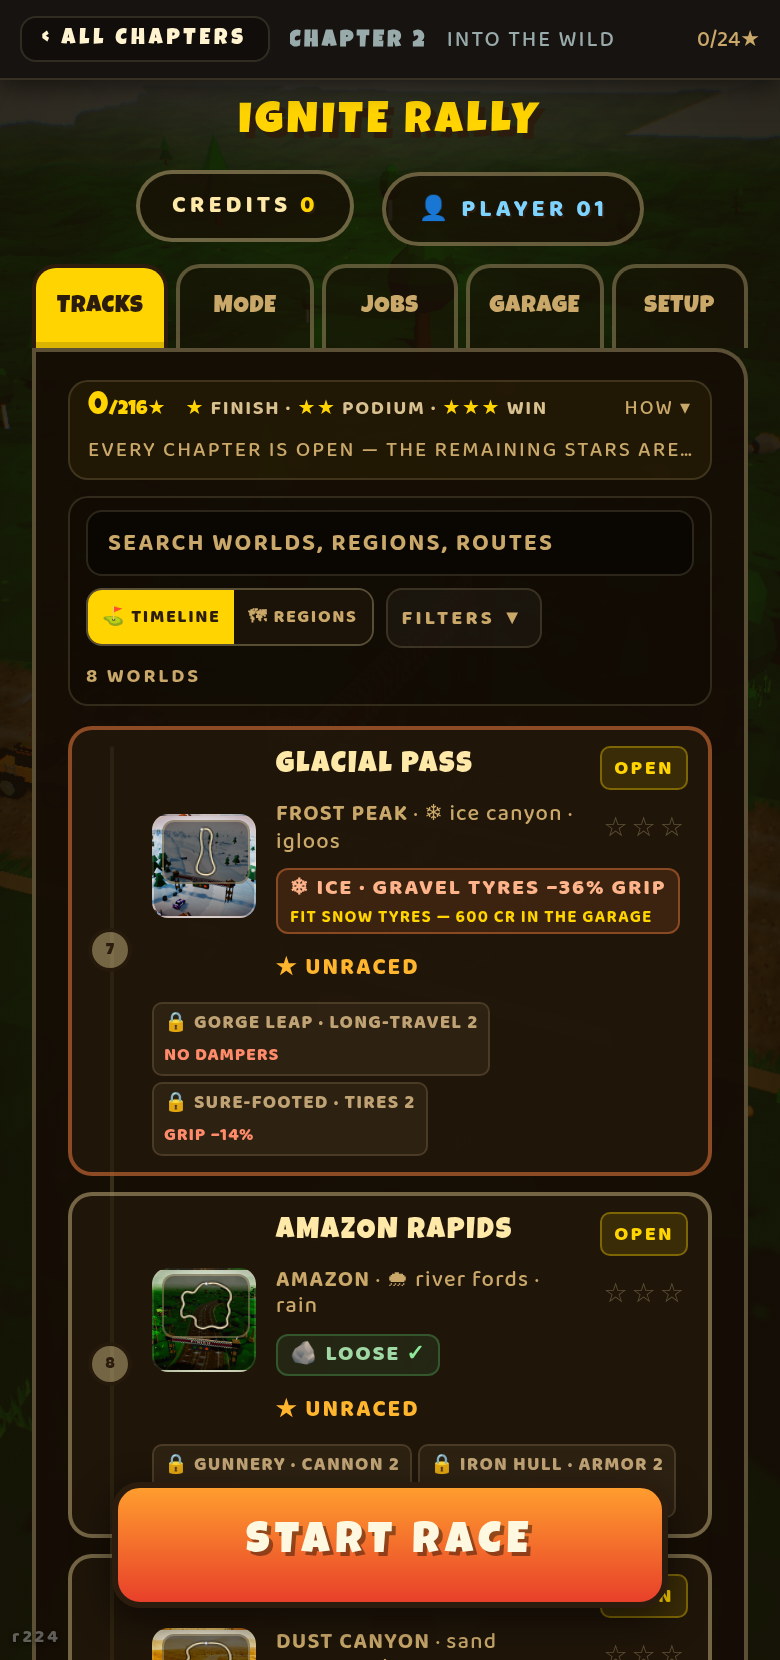
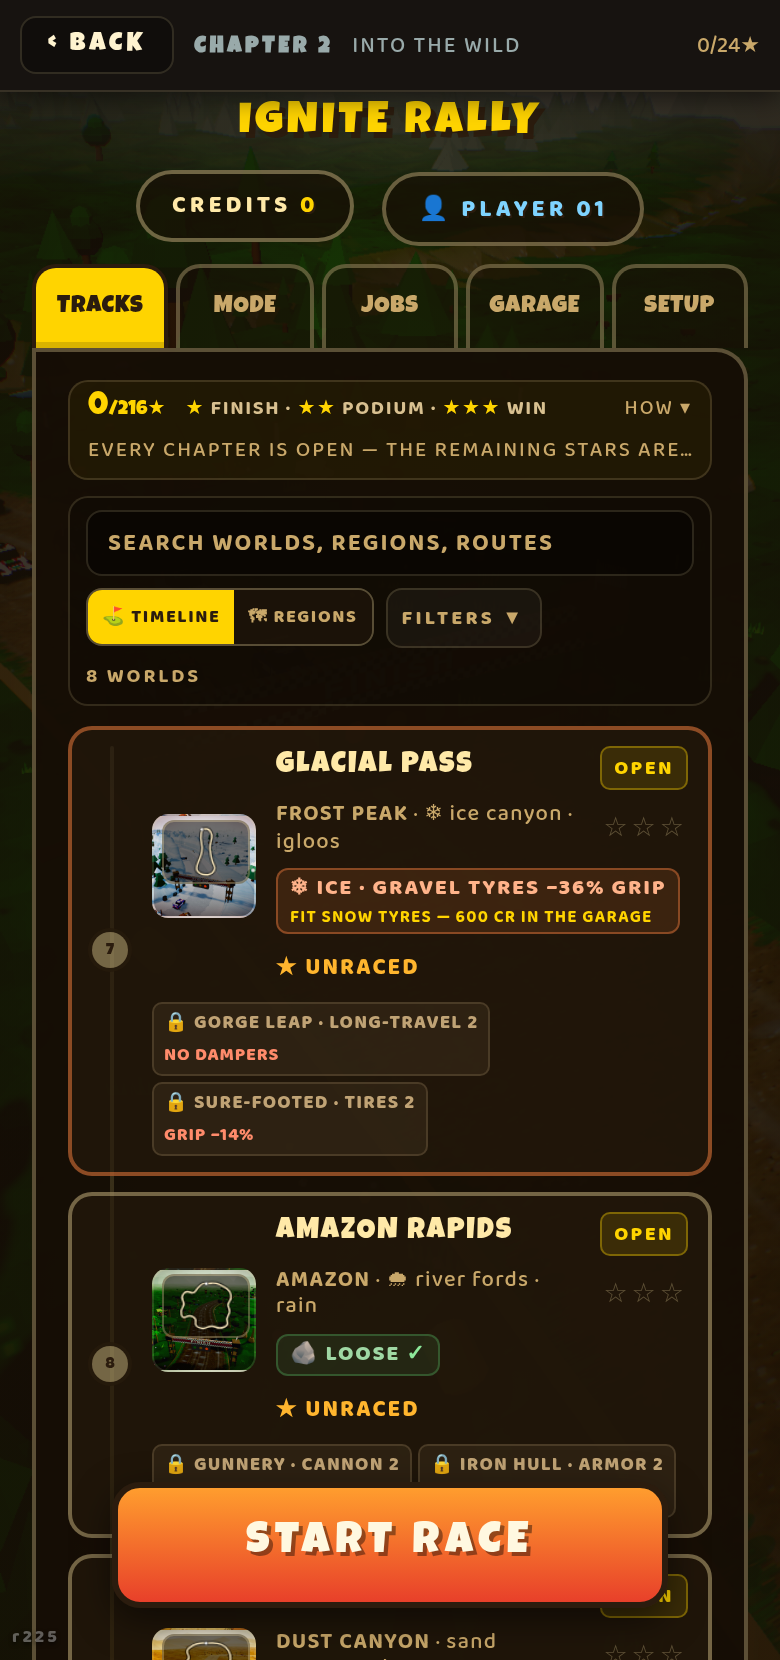
r225: one back button, one place, one word
"I miss the back button" — and nothing was broken, which is the point.
tools-scratch/whereback.mjs walks every menu state and prints what takes you
back from it. On r224:

  TRACKS, chapter index    (nothing)
  TRACKS, in a chapter     topbar "‹ ALL CHAPTERS" @10,8
  MODE tab                 header "‹ TRACKS"       @21,152
  JOBS/GARAGE/SETTINGS     header "‹ TRACKS"       @21,92   <- in the page,
                                                               so it scrolls
                                                               away

Three addresses, two labels, and on four screens of five it scrolled off with
the content. A control that moves is a control you hunt for, and hunting for
it reads as missing.

Now: #topbar is up in every menu state backTarget() finds a level above, the
button always reads BACK, and the label beside it says where you ARE — the
chapter and its stars, or the tab name — never where the tap lands. Measured
at @10,8 in all of them, at every scroll depth. The header #back-btn is
deleted, markup and CSS both, rather than hidden: a second control is how this
got to three in the first place.

The chapter index keeps no back button and the full logo — it is the front
door, and there is nowhere above it.

test-boot 7/0, test-ladder 31/0, test-timeline 33/0, test-filters 35/0,
test-mobile-hud green, boot.mjs 4/4 clean.

Claude-Session: https://claude.ai/code/session_01LagJ6uqqYS7wLYxpkyrkHY

diff --git a/index.html b/index.html
@@ -719,16 +719,17 @@
     letter-spacing:1px;color:var(--gold-dim)}
   .cc-stars{margin-left:auto;white-space:nowrap}
   .chapter-card .ch-bar{margin-top:7px}
-  /* THE BAR AT THE TOP OF A CHAPTER — see the markup note by #topbar.
-     Fixed across the top of the viewport, outside the scroller, opaque
-     because the list runs underneath it. */
-  .chapter-bar{display:flex;align-items:center;gap:10px;
-    padding:8px 10px;background:#171310;
-    border-bottom:1px solid var(--line-soft);z-index:30;
+  /* THE BACK BAR — see the markup note by #topbar. Fixed across the top of the
+     viewport, outside the scroller, opaque because the list runs underneath. */
+  #topbar{position:fixed;top:0;left:0;right:0;z-index:30;
+    display:flex;align-items:center;gap:10px;
+    padding:8px 10px;padding-top:max(8px,env(safe-area-inset-top));
+    background:#171310;border-bottom:1px solid var(--line-soft);
     box-shadow:0 3px 12px rgba(0,0,0,.55)}
-  #topbar{position:fixed;top:0;left:0;right:0;
-    padding-top:max(8px,env(safe-area-inset-top))}
   #topbar.hidden{display:none}
+  /* BACK is the biggest thing in the bar, because it is the only thing in the
+     bar you can press. The rest is a label. */
+  #topbar-back{font-size:13px;padding:7px 13px}
   .ch-back{font-family:'Luckiest Guy';font-size:11px;letter-spacing:2px;
     padding:5px 10px;border-radius:8px;cursor:pointer;
     color:var(--gold);background:rgba(0,0,0,.3);border:1px solid var(--line-soft)}
@@ -742,16 +743,6 @@
   /* inside a chapter the bar IS the header — this is the placeholder the row
      builder emits in its place, and it must take up no room at all */
   .chapter-head-none{display:none}
-  /* ---- BACK ---------------------------------------------------------------
-     Sits at the head of the menu, left of the credits chip, and only appears
-     when `backTarget` finds a level above the one you are on. Same visual
-     family as the chapter bar's own back control. */
-  #back-btn{font-family:'Luckiest Guy';font-size:11px;letter-spacing:2px;
-    padding:6px 12px;border-radius:9px;cursor:pointer;color:var(--gold);
-    background:rgba(0,0,0,.32);border:1px solid var(--line-soft);
-    margin-right:auto}
-  #back-btn:hover,#back-btn:focus-visible{border-color:var(--gold)}
-  #back-btn.hidden{display:none}
   /* THE TOP BAR OWNS THE ROOM IT TAKES. It is fixed, so it is out of flow and
      would otherwise print over the game title; the screen it covers gets that
      height back as padding while the bar is up. */
@@ -1596,7 +1587,7 @@
 </div>
 <div id="damage-vignette"></div>
 <div id="polish-vignette"></div>
-<div id="build-tag">r224</div>
+<div id="build-tag">r225</div>
 <div id="fade"></div>
 <div id="build-veil"></div>
 
@@ -1617,11 +1608,20 @@
   <button class="tbtn pedal" id="t-brake" data-key="ArrowDown">BRAKE</button>
 </div>
 
-<!-- THE CHAPTER BAR — one control, fixed to the top of the viewport.
-     There used to be THREE ways back out of a chapter on screen at once: this
-     one as a bottom-left pill, a sticky bar in the list, and the header BACK
-     button — reported with a screenshot showing all three. They are one thing
-     now, and it is this.
+<!-- THE BACK BUTTON. One button, one place, one word, everywhere in the menu
+     there is somewhere to go.
+     It took four goes to get here, and the failures are the point:
+       r222  a button in the header, which scrolls away
+       r223  plus a fixed pill bottom-left, which sat on the world cards
+       r225  merged into a top bar, but only INSIDE A CHAPTER, and labelled
+             ALL CHAPTERS — so on the tabs the header button was still the one
+             in charge, at y=92 (y=152 on MODE), and the control had three
+             addresses and two names depending on where you stood. Reported,
+             fairly, as "I miss the back button".
+     Now: this bar carries it in every menu state that has a level above it,
+     it always says BACK, and the label beside it says where you are. The
+     header button is gone rather than hidden — a second one is how this got
+     out of hand in the first place.
      FIXED, not sticky: sticky measures fine in Chromium and quietly stops
      sticking under a number of ancestor conditions that iOS Safari is
      stricter about. Living OUTSIDE the scrolling element is what makes fixed
@@ -1629,8 +1629,8 @@
      which are the properties that turn `fixed` back into `absolute`.
      TOP, not bottom: the bottom belongs to START RACE, and a pill down there
      sat on top of the world cards. -->
-<div id="topbar" class="chapter-bar hidden">
-  <button id="topbar-back" class="ch-back">‹&nbsp;ALL&nbsp;CHAPTERS</button>
+<div id="topbar" class="hidden">
+  <button id="topbar-back" class="ch-back" aria-label="Back">‹&nbsp;BACK</button>
   <div id="topbar-where" class="ch-here"></div>
   <div id="topbar-stars" class="ch-here-stars"></div>
 </div>
@@ -1647,12 +1647,12 @@
     <span class="nb">shoot them</span></div>
   <!-- Status chips sit ABOVE the tabs, not in the same row. Sharing the row
        meant a fourth tab pushed the whole strip onto two lines on a phone. -->
+  <!-- NO BACK BUTTON HERE ANY MORE. It used to sit left of the credits chip,
+       which put it at y=92 on most tabs, y=152 on MODE, and nowhere at all
+       inside a chapter — where a DIFFERENTLY WORDED one appeared at y=8. Three
+       addresses and two labels for one control, reported as "I miss the back
+       button". There is one now and it lives in #topbar. -->
   <div id="menu-status">
-    <!-- BACK. One button for the whole game, shown only when there is
-         somewhere to go (see `backTarget` in main.js). It is also what the
-         phone's own back gesture drives, so leaving a chapter or a tab no
-         longer means leaving the game. -->
-    <button id="back-btn" class="hidden" aria-label="Back">‹&nbsp;BACK</button>
     <span id="credits-chip">CREDITS&nbsp;<b id="credits">0</b></span>
     <button id="profile-chip" title="Driver profiles">👤&nbsp;<b id="profile-name">PLAYER 01</b></button>
   </div>
@@ -1891,10 +1891,10 @@
   // its URL + anon key here. Leave empty to keep sync codes only.
   window.IGNITE_SYNC = { url: '', key: '' };
 </script>
-<script type="module" src="./src/main.js?v=r224"></script>
+<script type="module" src="./src/main.js?v=r225"></script>
 <!-- offline arming: registers sw.js and drives the flight badge -->
-<script src="./src/offline.js?v=r224"></script>
+<script src="./src/offline.js?v=r225"></script>
 <!-- rural traffic: self-attaching, polls window.__game (no engine hooks) -->
-<script type="module" src="./src/traffic.js?v=r224"></script>
+<script type="module" src="./src/traffic.js?v=r225"></script>
 </body>
 </html>

diff --git a/src/main.js b/src/main.js
@@ -2562,13 +2562,18 @@ class Game {
     return true;
   }
 
-  /** Show the button only when it leads somewhere, and say where.
+  /** ONE BACK BUTTON, IN ONE PLACE, SAYING ONE WORD.
    *
-   *  ONE BACK CONTROL AT A TIME. There were three on screen together —
-   *  reported with a screenshot of a chapter carrying a header BACK, a sticky
-   *  bar and a fixed pill, all saying ALL CHAPTERS. Inside a chapter the fixed
-   *  top bar is the one that wins, because it is the one that cannot scroll
-   *  away, and the header button stands down under it.
+   *  It used to be two: a header button on the tabs and a differently-worded
+   *  bar inside a chapter. Measured, that put the control at y=92 on GARAGE,
+   *  y=152 on MODE, y=8 inside a chapter, and nowhere at the chapter index —
+   *  and the first two scrolled away with the page. A control that moves is a
+   *  control you have to hunt for, which is what "I miss the back button" was
+   *  about.
+   *
+   *  So the bar is up in EVERY menu state that has a level above it, the
+   *  button always reads BACK, and the label beside it says where you are —
+   *  `backTarget` already knows where the tap lands.
    */
   _syncBackBtn() {
     const t = this.backTarget();
@@ -2576,20 +2581,25 @@ class Game {
     // button is already the way out, so a second control would be clutter over
     // the road.
     const show = !!t && this.state === 'title';
-    const inChapter = show && t.at === 'chapter';
-    const b = document.getElementById('back-btn');
-    if (b) {
-      b.classList.toggle('hidden', !show || inChapter);
-      if (show) b.innerHTML = `‹&nbsp;${t.label}`;
-    }
     const bar = document.getElementById('topbar');
-    if (bar) bar.classList.toggle('hidden', !inChapter);
+    if (bar) bar.classList.toggle('hidden', !show);
+    // WHERE YOU ARE, not where the button goes — the button says BACK. Inside
+    // a chapter `_fillTopbar` has already written the chapter and its stars,
+    // so only the tab case is left to name.
+    if (show && t.at !== 'chapter') {
+      const tab = document.querySelector('#menu-tabs .menu-tab.current');
+      const where = document.getElementById('topbar-where');
+      const stars = document.getElementById('topbar-stars');
+      if (where) where.innerHTML = `<b>${tab ? tab.textContent.trim() : ''}</b>`;
+      if (stars) stars.textContent = '';
+    }
     // The bar is fixed, so it is out of flow: the screen under it owes it the
-    // height, and gives up the logo for it (see .compact).
+    // height, and gives up the logo for it (see .compact). Full branding is
+    // for the front door — the one screen with no way back.
     const ts = document.getElementById('title-screen');
     if (ts) {
-      ts.classList.toggle('with-topbar', inChapter);
-      ts.classList.toggle('compact', inChapter);
+      ts.classList.toggle('with-topbar', show);
+      ts.classList.toggle('compact', show);
     }
   }
 
@@ -2606,8 +2616,6 @@ class Game {
    *  not replaced and the next back does what the player expects.
    */
   _wireBack() {
-    const btn = document.getElementById('back-btn');
-    btn?.addEventListener('click', () => this.goBack());
     document.getElementById('topbar-back')?.addEventListener('click', () => this.goBack());
     window.addEventListener('keydown', (e) => {
       if (e.key !== 'Escape') return;

diff --git a/sw.js b/sw.js
@@ -16,7 +16,7 @@
  * CACHE is bumped by the release version. Bump it whenever ?v= in index.html
  * is bumped, or phones will keep serving the previous build forever.
  */
-const CACHE = 'ignite-rally-r224';
+const CACHE = 'ignite-rally-r225';
 
 // ---- CORE vs EXTRA ---------------------------------------------------------
 // CORE is everything the game needs to RUN with the radio off: the shell, the

diff --git a/HANDOVER.md b/HANDOVER.md
@@ -961,3 +961,40 @@ child of the panel outside the viewport).
 
 Probes: `redesign.mjs` (every back control on screen, at each scroll depth),
 `chrome.mjs`, `wf.mjs`, `lastcard.mjs`, `toppos.mjs`, `redesignshot.mjs`.
+
+## r225 — THE BACK BUTTON, FOURTH ATTEMPT, AND WHY THE FIRST THREE FAILED
+"I miss the back button 🤯", one build after r224 removed the header one.
+Nothing was broken. `tools-scratch/whereback.mjs` walks every menu state and
+prints what takes you back from it; on r224 that read:
+
+    TRACKS, chapter index    (nothing)
+    TRACKS, in a chapter     topbar "‹ ALL CHAPTERS" @10,8
+    MODE tab                 header "‹ TRACKS"       @21,152
+    JOBS/GARAGE/SETTINGS     header "‹ TRACKS"       @21,92
+                                                       ^^^ in the page, so it
+                                                           scrolls away
+
+Three addresses, two labels, and on four of the five screens it scrolled off
+with the content. The player was right and the measurement is what shows it: a
+control that MOVES is a control you have to hunt for, and hunting for it reads
+as missing.
+
+The rule now, and do not break it again: **one back control, one place, one
+word.** `#topbar` is up in every menu state `backTarget()` finds a level above,
+the button always reads BACK, and the label beside it says WHERE YOU ARE (the
+chapter and its stars, or the tab name) — never where the tap lands. The header
+`#back-btn` is DELETED, markup and CSS both, not hidden: a second control is
+exactly how this got to three.
+
+    TRACKS, chapter index    (nothing — it is the front door)
+    everywhere else          topbar "‹ BACK" @10,8, at every scroll depth
+
+The front door keeps the full logo; `.compact` now follows the bar rather than
+the chapter, so every screen with a way back trades the branding for the room.
+
+The four goes, kept because each was a plausible fix that made it worse:
+  r222  a button in the header — scrolls away
+  r223  plus a fixed pill bottom-left — sat on top of the world cards
+  r224  merged into a top bar, but only inside a chapter and labelled ALL
+        CHAPTERS, leaving the header button in charge on the tabs
+  r225  one bar, every state, says BACK
